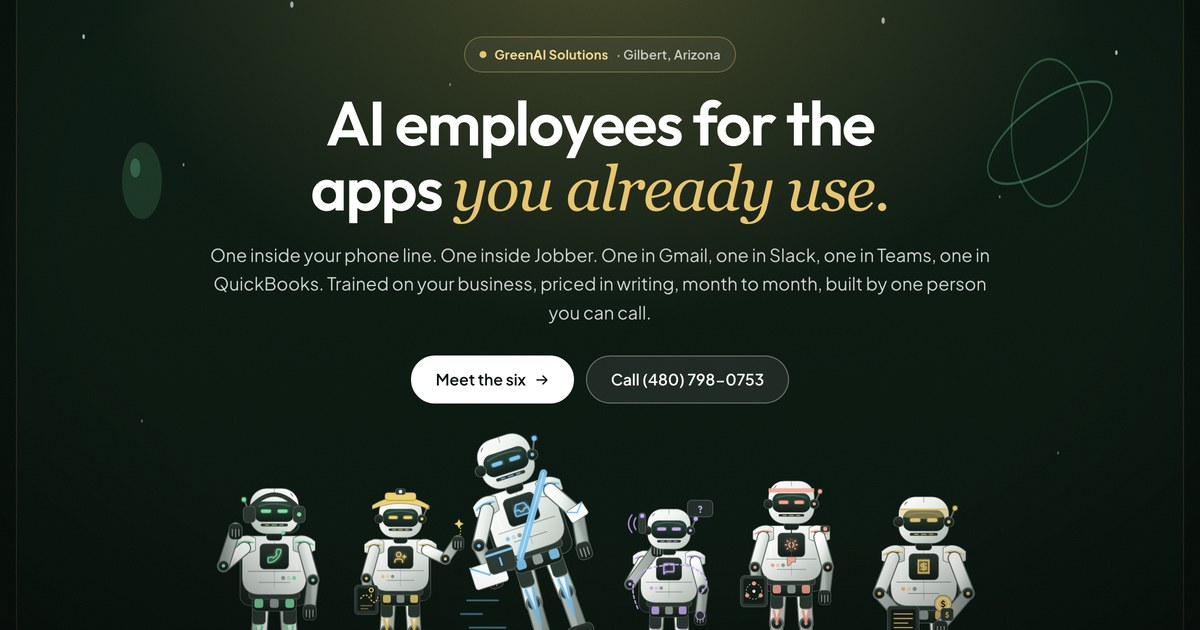
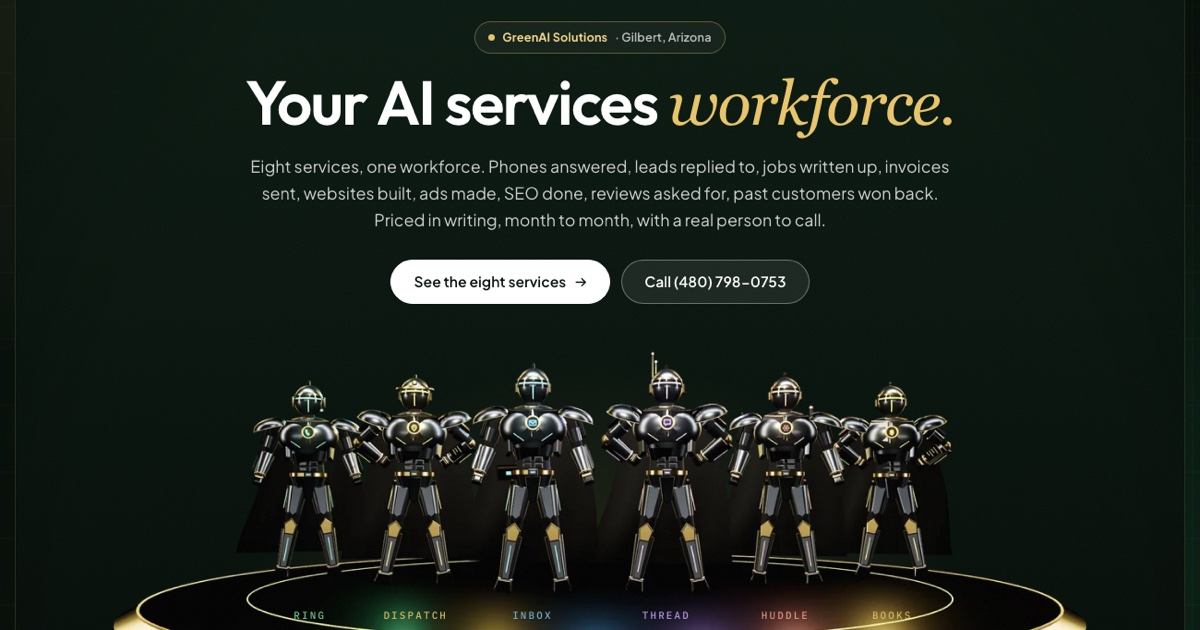
Reposition as an AI services workforce: homepage hero, services up top, footer, Services page, share card

diff --git a/index.html b/index.html
@@ -3,8 +3,8 @@
 <head>
   <meta charset="UTF-8" />
   <meta name="viewport" content="width=device-width, initial-scale=1.0" />
-  <title>GreenAI Solutions — AI employees for the apps you already use, from $297/mo</title>
-  <meta name="description" content="Six AI employees, one inside each app you already run: your phone line, Jobber, Gmail, Slack, Teams, QuickBooks. From $297 a month. Also hand-built websites from $500, a month of finished ads from $697, and custom systems when nothing off the shelf fits. Gilbert, Arizona." />
+  <title>GreenAI Solutions — an AI services workforce for small companies</title>
+  <meta name="description" content="An AI services workforce for small companies. Phones answered, leads replied to, invoices sent, websites built, ads made, SEO done, reviews asked for, past customers won back. Eight services, every price in writing: AI staff from $297 a month, websites from $500, finished ads from $697. Gilbert, Arizona." />
   <link rel="preconnect" href="https://fonts.googleapis.com" />
   <link rel="preconnect" href="https://fonts.gstatic.com" crossorigin />
   <link href="https://fonts.googleapis.com/css2?family=Outfit:wght@500;600;700&family=Plus+Jakarta+Sans:wght@400;500;600;700&family=IBM+Plex+Mono:wght@400;500&display=swap" rel="stylesheet" />
@@ -17,8 +17,8 @@
   <link rel="canonical" href="https://greenaidigital.com/" />
   <meta property="og:type" content="website" />
   <meta property="og:url" content="https://greenaidigital.com/" />
-  <meta property="og:title" content="GreenAI Solutions — AI employees for the apps you already use" />
-  <meta property="og:description" content="Six AI employees, one inside each app you already run: your phone line, Jobber, Gmail, Slack, Teams, QuickBooks. From $297 a month. Also hand-built websites from $500, a month of finished ads from $697, and custom systems when nothing off the shelf fits. Gilbert, Arizona." />
+  <meta property="og:title" content="GreenAI Solutions — your AI services workforce" />
+  <meta property="og:description" content="An AI services workforce for small companies. Phones answered, leads replied to, invoices sent, websites built, ads made, SEO done, reviews asked for, past customers won back. Eight services, every price in writing: AI staff from $297 a month, websites from $500, finished ads from $697. Gilbert, Arizona." />
   <meta property="og:image" content="https://greenaidigital.com/og-card.jpg" />
   <meta property="og:image:width" content="1200" />
   <meta property="og:image:height" content="630" />
@@ -79,9 +79,9 @@
     .hp-ads > div:not(.tall) { aspect-ratio: 1; }
     .hp-ads span { position: absolute; left: .45rem; bottom: .4rem; padding: .15rem .45rem; border-radius: 999px; background: rgba(15,26,20,.75); color: #fff; font-size: .62rem; font-weight: 700; }
     .hp-schem { display: grid; gap: .45rem; }
-    .hp-schem div { display: grid; grid-template-columns: auto 1fr auto; gap: .6rem; align-items: center; padding: .55rem .7rem; border: 1px solid var(--line); border-radius: 12px; background: #fff; font-size: .8rem; color: var(--ink); }
+    .hp-schem div { display: grid; grid-template-columns: auto 1fr auto; gap: .6rem; align-items: center; padding: .55rem .7rem; border: 1px solid var(--line); border-radius: 12px; background: rgba(255,255,255,.04); border-color: rgba(232,196,106,.28); font-size: .8rem; color: #fff; }
     .hp-schem i { width: 8px; height: 8px; border-radius: 50%; background: var(--green); }
-    .hp-schem em { font-style: normal; font-family: var(--mono); font-size: .66rem; color: var(--ink-3); }
+    .hp-schem em { font-style: normal; font-family: var(--mono); font-size: .66rem; color: rgba(255,255,255,.6); }
     .hp-services .sn-card { text-align: left; }
     .hp-services .sn-card__ico { margin-left: 0; }
     .hp-services .sn-card__price { display: flex; justify-content: space-between; align-items: baseline; gap: 1rem; margin-top: 1.2rem; padding-top: 1rem; border-top: 1px solid var(--line); }
@@ -150,9 +150,9 @@
     "founder": { "@type": "Person", "name": "Jaden Green" },
     "address": { "@type": "PostalAddress", "addressLocality": "Gilbert", "addressRegion": "AZ", "postalCode": "85296", "addressCountry": "US" },
     "areaServed": "US",
-    "description": "AI employees, websites, ad creation and custom systems for small companies.",
+    "description": "An AI services workforce for small companies: AI staff inside the apps you already use, websites, ad creation, SEO, CRM and dashboards, Google reviews, win-back campaigns and custom systems.",
     "makesOffer": [
-      { "@type": "Offer", "name": "AI employees", "url": "https://greenaidigital.com/staff.html", "priceCurrency": "USD", "price": "297" },
+      { "@type": "Offer", "name": "AI staff inside your apps", "url": "https://greenaidigital.com/staff.html", "priceCurrency": "USD", "price": "297" },
       { "@type": "Offer", "name": "Websites", "url": "https://greenaidigital.com/service-web-design.html", "priceCurrency": "USD", "price": "500" },
       { "@type": "Offer", "name": "Ad creation", "url": "https://greenaidigital.com/service-ai-ads.html", "priceCurrency": "USD", "price": "697" }
     ]
@@ -163,19 +163,48 @@
     <div class="sn-wrap"><header class="sn-panel sn-hero" aria-labelledby="hero-heading">
       <div class="sn-hero__inner">
         <p class="tk-eyebrow"><b>GreenAI Solutions</b> · Gilbert, Arizona</p>
-        <h1 class="tk-h1" id="hero-heading">AI employees for the apps <em>you already use.</em></h1>
-        <p class="sn-hero__sub">One inside your phone line. One inside Jobber. One in Gmail, one in Slack, one in Teams, one in QuickBooks. Trained on your business, priced in writing, month to month, built by one person you can call.</p>
+        <h1 class="tk-h1" id="hero-heading">Your AI services <em>workforce.</em></h1>
+        <p class="sn-hero__sub">Eight services, one workforce. Phones answered, leads replied to, jobs written up, invoices sent, websites built, ads made, SEO done, reviews asked for, past customers won back. Priced in writing, month to month, with a real person to call.</p>
         <div class="sn-hero__cta">
-          <a href="staff.html" class="tk-btn tk-btn--inverse tk-btn--arrow">Meet the six</a>
+          <a href="#h-also" class="tk-btn tk-btn--inverse tk-btn--arrow">See the eight services</a>
           <a href="tel:4807980753" class="tk-btn tk-btn--ghost">Call (480) 798-0753</a>
         </div>
       </div>
-      <div class="hp-six"><div class="hp-six__in"><img src="art/hero-six-1400.webp" srcset="art/hero-six-1400.webp 1400w, art/hero-six.webp 2400w" sizes="(max-width: 720px) 150vw, 1240px" width="2400" height="759" alt="The six AI employees standing on one stage: RING, DISPATCH, INBOX, THREAD, HUDDLE and BOOKS." fetchpriority="high" decoding="async" /><a href="ring.html" style="left:24.2%;--c:#7DE3A4" aria-label="RING"><span>RING</span></a><a href="dispatch.html" style="left:33.6%;--c:#F0CF6B" aria-label="DISPATCH"><span>DISPATCH</span></a><a href="inbox.html" style="left:44.0%;--c:#7CC4F0" aria-label="INBOX"><span>INBOX</span></a><a href="thread.html" style="left:55.9%;--c:#C9A9F7" aria-label="THREAD"><span>THREAD</span></a><a href="huddle.html" style="left:66.5%;--c:#F5A38E" aria-label="HUDDLE"><span>HUDDLE</span></a><a href="books.html" style="left:76.0%;--c:#E8C46A" aria-label="BOOKS"><span>BOOKS</span></a></div></div>
+      <div class="hp-six"><div class="hp-six__in"><img src="art/hero-six-1400.webp" srcset="art/hero-six-1400.webp 1400w, art/hero-six.webp 2400w" sizes="(max-width: 720px) 150vw, 1240px" width="2400" height="759" alt="The GreenAI workforce standing on one stage: RING, DISPATCH, INBOX, THREAD, HUDDLE and BOOKS." fetchpriority="high" decoding="async" /><a href="ring.html" style="left:24.2%;--c:#7DE3A4" aria-label="RING"><span>RING</span></a><a href="dispatch.html" style="left:33.6%;--c:#F0CF6B" aria-label="DISPATCH"><span>DISPATCH</span></a><a href="inbox.html" style="left:44.0%;--c:#7CC4F0" aria-label="INBOX"><span>INBOX</span></a><a href="thread.html" style="left:55.9%;--c:#C9A9F7" aria-label="THREAD"><span>THREAD</span></a><a href="huddle.html" style="left:66.5%;--c:#F5A38E" aria-label="HUDDLE"><span>HUDDLE</span></a><a href="books.html" style="left:76.0%;--c:#E8C46A" aria-label="BOOKS"><span>BOOKS</span></a></div></div>
     </header></div>
+
+    <section class="sn-sec" aria-labelledby="h-also">
+      <div class="sn-inner">
+        <div class="sn-head"><h2 class="tk-h2" id="h-also">Eight services. <em>One workforce.</em></h2><p class="tk-lede">Hand over one job or the whole front office. Every price is the whole price, and you have it in writing before anything is signed.</p></div>
+        <div class="sn-cards sn-cards--3 hp-services">
+          <article class="sn-card" style="grid-column:1/-1"><div class="sn-card__ico"><svg viewBox="0 0 24 24" fill="none" stroke="currentColor" stroke-width="1.8" stroke-linecap="round" stroke-linejoin="round"><path d="M16 21v-2a4 4 0 0 0-4-4H6a4 4 0 0 0-4 4v2"/><circle cx="9" cy="7" r="4"/><path d="M19 8v6M22 11h-6"/></svg></div><h3>AI staff inside your apps</h3><p>Six AI employees, one inside each tool you already run: your phone line, Jobber, Gmail, Slack, Teams and QuickBooks. They answer, reply, book and invoice at any hour, in your wording.</p>
+            <div class="sn-card__price"><b>from $297/mo</b><a href="staff.html">Meet the six →</a></div></article>
+          <article class="sn-card"><div class="sn-card__ico"><svg viewBox="0 0 24 24" fill="none" stroke="currentColor" stroke-width="1.8" stroke-linecap="round" stroke-linejoin="round"><rect x="3" y="3" width="18" height="18" rx="2"/><path d="M3 9h18M3 15h18M9 3v18"/></svg></div><h3>Websites</h3><p>No themes, no page builder. Fast on a phone, an obvious next step on every page. The files are yours the day it launches.</p>
+            <div class="sn-card__vis"><div class="hp-browser" aria-label="Three live sites, cycling"><div class="hp-browser__bar"><i></i><i></i><i></i><span class="hp-browser__url" id="hp-url">performancelab.fitness</span></div><div class="hp-browser__shots" id="hp-shots"><img class="on" src="previews/work-perflab.webp" alt="performancelab.fitness" width="1100" height="687" loading="lazy" decoding="async" data-url="performancelab.fitness" /><img src="previews/work-halle.webp" alt="handmadebyhalle.com" width="1100" height="687" loading="lazy" decoding="async" data-url="handmadebyhalle.com" /><img src="previews/work-bakr.webp" alt="bakrjewelry.co" width="1100" height="687" loading="lazy" decoding="async" data-url="bakrjewelry.co" /></div></div></div>
+            <div class="sn-card__price"><b>from $500</b><a href="service-web-design.html">See the website service →</a></div></article>
+          <article class="sn-card"><div class="sn-card__ico"><svg viewBox="0 0 24 24" fill="none" stroke="currentColor" stroke-width="1.8" stroke-linecap="round" stroke-linejoin="round"><path d="m12 2 3.09 6.26L22 9.27l-5 4.87 1.18 6.88L12 17.77l-6.18 3.25L7 14.14 2 9.27l6.91-1.01z"/></svg></div><h3>Ad creation</h3><p>Ten, twenty-five or sixty finished ads a month, in every size the platforms need. Run them all and keep what works.</p>
+            <div class="sn-card__vis"><div class="hp-ads" aria-label="Finished ad output"><div class="tall"><video src="art/ad-vid-clock.mp4" muted autoplay loop playsinline preload="metadata" poster="art/ad-angle-clock.webp" aria-label="A fifteen-second vertical ad"></video><span>9:16</span></div><div><img src="art/ad-angle-question.webp" alt="A square ad" width="720" height="720" loading="lazy" decoding="async" /><span>1:1</span></div><div><img src="art/ad-angle-split.webp" alt="A portrait ad" width="720" height="893" loading="lazy" decoding="async" /><span>4:5</span></div></div></div>
+            <div class="sn-card__price"><b>from $697/mo</b><a href="service-ai-ads.html">See the ad desk →</a></div></article>
+          <article class="sn-card"><div class="sn-card__ico"><svg viewBox="0 0 24 24" fill="none" stroke="currentColor" stroke-width="1.8" stroke-linecap="round" stroke-linejoin="round"><path d="M12 22v-5M9 8V2M15 8V2M18 8v5a6 6 0 0 1-12 0V8z"/></svg></div><h3>Custom systems</h3><p>An intake line, a quoting tool, a flight recorder for an AI agent. A written scope and a fixed price before a line of code.</p>
+            <div class="sn-card__vis"><div class="hp-schem" aria-label="A custom system, drawn from BLACKBOX"><div><i></i>Every call logged<em>append-only</em></div><div><i></i>Hash-chained<em>tamper-evident</em></div><div><i></i>Replayable<em>step by step</em></div><div><i></i>Runbook and source handed over<em>yours</em></div></div></div>
+            <div class="sn-card__price"><b>Quoted</b><a href="service-ai-consulting.html">See what has been built →</a></div></article>
+        </div>
+        <div class="sn-cards hp-services" style="grid-template-columns:repeat(2,minmax(0,1fr));margin-top:1.5rem">
+          <article class="sn-card"><div class="sn-card__ico"><svg viewBox="0 0 24 24" fill="none" stroke="currentColor" stroke-width="1.8" stroke-linecap="round" stroke-linejoin="round"><circle cx="11" cy="11" r="7"/><path d="M21 21l-4.3-4.3"/></svg></div><h3>AI SEO</h3><p>One AI agent does your SEO end to end: finds what is wrong, fixes it on your site, writes the pages you are missing and reports what changed. No new tools, no new hire. Nothing goes live until you have read it.</p>
+            <div class="sn-card__price"><b>Quoted</b><a href="service-ai-seo.html">See how AI SEO works →</a></div></article>
+          <article class="sn-card"><div class="sn-card__ico"><svg viewBox="0 0 24 24" fill="none" stroke="currentColor" stroke-width="1.8" stroke-linecap="round" stroke-linejoin="round"><rect x="3" y="3" width="18" height="18" rx="2"/><path d="M3 9h18M3 15h18M9 3v18"/></svg></div><h3>CRM and dashboard optimization</h3><p>The CRM you already pay for, cleaned up and made to follow up on its own, plus one screen with the numbers you run the company on: leads, speed, quotes, revenue, money owed.</p>
+            <div class="sn-card__price"><b>Quoted</b><a href="service-crm-dashboards.html">See what gets fixed →</a></div></article>
+          <article class="sn-card"><div class="sn-card__ico"><svg viewBox="0 0 24 24" fill="none" stroke="currentColor" stroke-width="1.8" stroke-linecap="round" stroke-linejoin="round"><path d="m12 2 3.09 6.26L22 9.27l-5 4.87 1.18 6.88L12 17.77l-6.18 3.25L7 14.14 2 9.27l6.91-1.01z"/></svg></div><h3>Google reviews</h3><p>Every finished job gets a review request, every review gets a reply in your wording, and you get the count each month. Every customer is asked the same way, the way Google requires.</p>
+            <div class="sn-card__price"><b>Quoted</b><a href="service-reviews.html">See the review engine →</a></div></article>
+          <article class="sn-card"><div class="sn-card__ico"><svg viewBox="0 0 24 24" fill="none" stroke="currentColor" stroke-width="1.8" stroke-linecap="round" stroke-linejoin="round"><path d="m17 2 4 4-4 4"/><path d="M3 11v-1a4 4 0 0 1 4-4h14"/><path d="m7 22-4-4 4-4"/><path d="M21 13v1a4 4 0 0 1-4 4H3"/></svg></div><h3>Win back past customers</h3><p>The people you already served and never wrote to again. The list cleaned up, a short series of messages in your voice, and every reply sent straight to you.</p>
+            <div class="sn-card__price"><b>Quoted</b><a href="service-winback.html">See how win-back runs →</a></div></article>
+        </div>
+      </div>
+    </section>
 
     <section class="sn-sec" aria-labelledby="h-roster">
       <div class="sn-inner">
-        <div class="sn-head"><h2 class="tk-h2" id="h-roster">Six names. <em>Six apps.</em></h2><p class="tk-lede">Hire one, or the whole staff for $1,797 a month.</p></div>
+        <div class="sn-head"><h2 class="tk-h2" id="h-roster">Six names. <em>Six apps.</em></h2><p class="tk-lede">The staff side of the workforce, one inside each tool you already run. Hire one, or all six for $1,797 a month.</p></div>
         <div class="sn-more sn-more--3"><a href="ring.html"><img class="hp-face" src="art/six-ring.webp" alt="" width="280" height="280" loading="lazy" decoding="async" /><b>RING</b><span>Works inside your phone line. Picks up in about eight seconds.</span><i>$497 a month →</i></a><a href="dispatch.html"><img class="hp-face" src="art/six-dispatch.webp" alt="" width="280" height="280" loading="lazy" decoding="async" /><b>DISPATCH</b><span>Works inside Jobber, Housecall Pro or ServiceTitan. Turns a lead into a client and a request.</span><i>$497 a month →</i></a><a href="inbox.html"><img class="hp-face" src="art/six-inbox.webp" alt="" width="280" height="280" loading="lazy" decoding="async" /><b>INBOX</b><span>Works inside Google Workspace. Replies to every new lead in under a minute.</span><i>$397 a month →</i></a><a href="thread.html"><img class="hp-face" src="art/six-thread.webp" alt="" width="280" height="280" loading="lazy" decoding="async" /><b>THREAD</b><span>Works inside Slack. Answers the team from your own documents.</span><i>$347 a month →</i></a><a href="huddle.html"><img class="hp-face" src="art/six-huddle.webp" alt="" width="280" height="280" loading="lazy" decoding="async" /><b>HUDDLE</b><span>Works inside Microsoft Teams. Answers the team from your files.</span><i>$347 a month →</i></a><a href="books.html"><img class="hp-face" src="art/six-books.webp" alt="" width="280" height="280" loading="lazy" decoding="async" /><b>BOOKS</b><span>Works inside QuickBooks Online. Sends the invoice when the job closes.</span><i>$297 a month →</i></a></div>
         <p style="text-align:center;margin:1.5rem 0 0"><a href="staff.html" class="tk-btn tk-btn--solid tk-btn--arrow">See all six at work</a></p>
       </div>
@@ -207,7 +236,7 @@
     <div class="sn-state" aria-label="Why this exists">
       <p>Most small companies do not lose the job to a competitor. They lose it to the phone that rang out at 6:40, the email answered on Thursday, and the invoice that went out three weeks late.</p>
       <p>Not because nobody cared. Because the same three people were already doing everything.</p>
-      <p><span class="who">SIX EMPLOYEES</span> take those off your plate. One inside each app you already use. Nothing new to log into.</p>
+      <p><span class="who">THE WORKFORCE</span> takes those off your plate. It works inside the apps you already use. Nothing new to log into.</p>
     </div>
 
     <section class="sn-sec" aria-labelledby="h-how">
@@ -257,33 +286,6 @@
       </div>
     </section>
 
-    <section class="sn-sec" aria-labelledby="h-also">
-      <div class="sn-inner">
-        <div class="sn-head"><h2 class="tk-h2" id="h-also">Also built here, <em>by the same person.</em></h2><p class="tk-lede">Websites coded by hand, a month of finished ads, SEO that gets done, a CRM you can trust, and custom systems when the honest answer is that it has to be built.</p></div>
-        <div class="sn-cards sn-cards--3 hp-services">
-          <article class="sn-card"><div class="sn-card__ico"><svg viewBox="0 0 24 24" fill="none" stroke="currentColor" stroke-width="1.8" stroke-linecap="round" stroke-linejoin="round"><rect x="3" y="3" width="18" height="18" rx="2"/><path d="M3 9h18M3 15h18M9 3v18"/></svg></div><h3>Websites</h3><p>No themes, no page builder. Fast on a phone, an obvious next step on every page. The files are yours the day it launches.</p>
-            <div class="sn-card__vis"><div class="hp-browser" aria-label="Three live sites, cycling"><div class="hp-browser__bar"><i></i><i></i><i></i><span class="hp-browser__url" id="hp-url">performancelab.fitness</span></div><div class="hp-browser__shots" id="hp-shots"><img class="on" src="previews/work-perflab.webp" alt="performancelab.fitness" width="1100" height="687" loading="lazy" decoding="async" data-url="performancelab.fitness" /><img src="previews/work-halle.webp" alt="handmadebyhalle.com" width="1100" height="687" loading="lazy" decoding="async" data-url="handmadebyhalle.com" /><img src="previews/work-bakr.webp" alt="bakrjewelry.co" width="1100" height="687" loading="lazy" decoding="async" data-url="bakrjewelry.co" /></div></div></div>
-            <div class="sn-card__price"><b>from $500</b><a href="service-web-design.html">See the website service →</a></div></article>
-          <article class="sn-card"><div class="sn-card__ico"><svg viewBox="0 0 24 24" fill="none" stroke="currentColor" stroke-width="1.8" stroke-linecap="round" stroke-linejoin="round"><path d="m12 2 3.09 6.26L22 9.27l-5 4.87 1.18 6.88L12 17.77l-6.18 3.25L7 14.14 2 9.27l6.91-1.01z"/></svg></div><h3>Ad creation</h3><p>Ten, twenty-five or sixty finished ads a month, in every size the platforms need. Run them all and keep what works.</p>
-            <div class="sn-card__vis"><div class="hp-ads" aria-label="Finished ad output"><div class="tall"><video src="art/ad-vid-clock.mp4" muted autoplay loop playsinline preload="metadata" poster="art/ad-angle-clock.webp" aria-label="A fifteen-second vertical ad"></video><span>9:16</span></div><div><img src="art/ad-angle-question.webp" alt="A square ad" width="720" height="720" loading="lazy" decoding="async" /><span>1:1</span></div><div><img src="art/ad-angle-split.webp" alt="A portrait ad" width="720" height="893" loading="lazy" decoding="async" /><span>4:5</span></div></div></div>
-            <div class="sn-card__price"><b>from $697/mo</b><a href="service-ai-ads.html">See the ad desk →</a></div></article>
-          <article class="sn-card"><div class="sn-card__ico"><svg viewBox="0 0 24 24" fill="none" stroke="currentColor" stroke-width="1.8" stroke-linecap="round" stroke-linejoin="round"><path d="M12 22v-5M9 8V2M15 8V2M18 8v5a6 6 0 0 1-12 0V8z"/></svg></div><h3>Custom systems</h3><p>An intake line, a quoting tool, a flight recorder for an AI agent. A written scope and a fixed price before a line of code.</p>
-            <div class="sn-card__vis"><div class="hp-schem" aria-label="A custom system, drawn from BLACKBOX"><div><i></i>Every call logged<em>append-only</em></div><div><i></i>Hash-chained<em>tamper-evident</em></div><div><i></i>Replayable<em>step by step</em></div><div><i></i>Runbook and source handed over<em>yours</em></div></div></div>
-            <div class="sn-card__price"><b>Quoted</b><a href="service-ai-consulting.html">See what has been built →</a></div></article>
-        </div>
-        <div class="sn-cards hp-services" style="grid-template-columns:repeat(2,minmax(0,1fr));margin-top:1.5rem">
-          <article class="sn-card"><div class="sn-card__ico"><svg viewBox="0 0 24 24" fill="none" stroke="currentColor" stroke-width="1.8" stroke-linecap="round" stroke-linejoin="round"><circle cx="11" cy="11" r="7"/><path d="M21 21l-4.3-4.3"/></svg></div><h3>AI SEO</h3><p>One AI agent does your SEO end to end: finds what is wrong, fixes it on your site, writes the pages you are missing and reports what changed. No new tools, no new hire. Nothing goes live until you have read it.</p>
-            <div class="sn-card__price"><b>Quoted</b><a href="service-ai-seo.html">See how AI SEO works →</a></div></article>
-          <article class="sn-card"><div class="sn-card__ico"><svg viewBox="0 0 24 24" fill="none" stroke="currentColor" stroke-width="1.8" stroke-linecap="round" stroke-linejoin="round"><rect x="3" y="3" width="18" height="18" rx="2"/><path d="M3 9h18M3 15h18M9 3v18"/></svg></div><h3>CRM and dashboard optimization</h3><p>The CRM you already pay for, cleaned up and made to follow up on its own, plus one screen with the numbers you run the company on: leads, speed, quotes, revenue, money owed.</p>
-            <div class="sn-card__price"><b>Quoted</b><a href="service-crm-dashboards.html">See what gets fixed →</a></div></article>
-          <article class="sn-card"><div class="sn-card__ico"><svg viewBox="0 0 24 24" fill="none" stroke="currentColor" stroke-width="1.8" stroke-linecap="round" stroke-linejoin="round"><path d="m12 2 3.09 6.26L22 9.27l-5 4.87 1.18 6.88L12 17.77l-6.18 3.25L7 14.14 2 9.27l6.91-1.01z"/></svg></div><h3>Google reviews</h3><p>Every finished job gets a review request, every review gets a reply in your wording, and you get the count each month. Every customer is asked the same way, the way Google requires.</p>
-            <div class="sn-card__price"><b>Quoted</b><a href="service-reviews.html">See the review engine →</a></div></article>
-          <article class="sn-card"><div class="sn-card__ico"><svg viewBox="0 0 24 24" fill="none" stroke="currentColor" stroke-width="1.8" stroke-linecap="round" stroke-linejoin="round"><path d="m17 2 4 4-4 4"/><path d="M3 11v-1a4 4 0 0 1 4-4h14"/><path d="m7 22-4-4 4-4"/><path d="M21 13v1a4 4 0 0 1-4 4H3"/></svg></div><h3>Win back past customers</h3><p>The people you already served and never wrote to again. The list cleaned up, a short series of messages in your voice, and every reply sent straight to you.</p>
-            <div class="sn-card__price"><b>Quoted</b><a href="service-winback.html">See how win-back runs →</a></div></article>
-        </div>
-      </div>
-    </section>
-
     <section class="sn-sec" aria-labelledby="h-work" style="padding-top:0">
       <div class="sn-inner">
         <div class="sn-head"><h2 class="tk-h2" id="h-work">Everything here is live. <em>Open it.</em></h2><p class="tk-lede">Three sites for real owners and two 3D concept sites built in-house. <a href="testimonials.html">All the work</a></p></div>
@@ -300,10 +302,10 @@
     <section class="sn-sec" aria-labelledby="h-stats" style="padding-top:0">
       <div class="sn-inner">
         <div class="sn-stats">
-          <div class="sn-stat"><span>AI employees</span><b>6</b><small>one inside each app you already use</small></div>
+          <div class="sn-stat"><span>Services</span><b>8</b><small>one workforce, every price in writing</small></div>
           <div class="sn-stat"><span>From</span><b>$297</b><small>a month, month to month, no setup fee</small></div>
           <div class="sn-stat"><span>Picks up in about</span><b>8 sec</b><small>the target RING is built to, any hour</small></div>
-          <div class="sn-stat"><span>Person to call</span><b>1</b><small>the one who built it: (480) 798-0753</small></div>
+          <div class="sn-stat"><span>Number to call</span><b>1</b><small>a person answers it: (480) 798-0753</small></div>
         </div>
       </div>
     </section>
@@ -325,7 +327,7 @@
       </div>
     </section>
   </main>
-  <div class="sn-sticky"><a href="staff.html" class="tk-btn tk-btn--solid tk-btn--arrow">Meet the six AI employees</a></div>
+  <div class="sn-sticky"><a href="services.html" class="tk-btn tk-btn--solid tk-btn--arrow">See the eight services</a></div>
     <footer class="footer" aria-label="Site footer">
     <div class="container">
       <div class="footer__grid">
@@ -334,7 +336,7 @@
             <div class="footer__logo-icon"><img src="logo-mark.png" alt="GreenAI" width="36" height="36" loading="lazy" decoding="async"/></div>
             <span class="footer__logo-name">Green<span style="color:#D4AF37">AI</span> Solutions</span>
           </a>
-          <p class="footer__tagline">AI employees, websites, ad creation and custom systems for small companies in any trade. Built one at a time in Gilbert, Arizona, by the person who answers the phone.</p>
+          <p class="footer__tagline">An AI services workforce for small companies in any trade: AI staff, websites, ads, SEO, CRM, reviews, win-back and custom systems. Run from Gilbert, Arizona, with a real person on the phone.</p>
           <p style="font-size:.78rem;color:rgba(255,255,255,.62)">Jaden Green, doing business as GreenAI Solutions<br/>Gilbert, Arizona</p>
         </div>
 

diff --git a/services.html b/services.html
@@ -3,8 +3,8 @@
 <head>
   <meta charset="UTF-8" />
   <meta name="viewport" content="width=device-width, initial-scale=1.0" />
-  <title>Services — AI employees, websites, ad creation and custom systems | GreenAI Solutions</title>
-  <meta name="description" content="Eight services, every price the whole price. AI employees from $297 a month, hand-coded websites from $500, a month of finished ads from $697, custom systems quoted after one conversation. Gilbert, Arizona." />
+  <title>Services — eight services from one AI workforce | GreenAI Solutions</title>
+  <meta name="description" content="Eight services from one AI services workforce, every price the whole price. AI staff from $297 a month, hand-coded websites from $500, a month of finished ads from $697, custom systems quoted after one conversation. Gilbert, Arizona." />
   <link rel="preconnect" href="https://fonts.googleapis.com" />
   <link rel="preconnect" href="https://fonts.gstatic.com" crossorigin />
   <link href="https://fonts.googleapis.com/css2?family=Outfit:wght@500;600;700&family=Plus+Jakarta+Sans:wght@400;500;600;700&family=IBM+Plex+Mono:wght@400;500&display=swap" rel="stylesheet" />
@@ -17,8 +17,8 @@
   <link rel="canonical" href="https://greenaidigital.com/services.html" />
   <meta property="og:type" content="website" />
   <meta property="og:url" content="https://greenaidigital.com/services.html" />
-  <meta property="og:title" content="Eight services. Every price is the whole price." />
-  <meta property="og:description" content="Eight services, every price the whole price. AI employees from $297 a month, hand-coded websites from $500, a month of finished ads from $697, custom systems quoted after one conversation. Gilbert, Arizona." />
+  <meta property="og:title" content="Eight services. One workforce." />
+  <meta property="og:description" content="Eight services from one AI services workforce, every price the whole price. AI staff from $297 a month, hand-coded websites from $500, a month of finished ads from $697, custom systems quoted after one conversation. Gilbert, Arizona." />
   <meta property="og:image" content="https://greenaidigital.com/og-card.jpg" />
   <meta property="og:image:width" content="1200" />
   <meta property="og:image:height" content="630" />
@@ -221,8 +221,8 @@
 
     <header class="sv-hero" aria-labelledby="h1">
       <p class="sv-slate">GreenAI Solutions presents</p>
-      <h1 id="h1">Eight services. <em>One number to call.</em></h1>
-      <p>Nothing here is a starting point that grows once you are in. The number next to each service is what it costs, the agreement you would sign is already on this site, and anything recurring is month to month.</p>
+      <h1 id="h1">Eight services. <em>One workforce.</em></h1>
+      <p>GreenAI is an AI services workforce: you hand over a job, and it gets done inside the tools you already use. Nothing here is a starting point that grows once you are in. The number next to each service is what it costs, the agreement you would sign is already on this site, and anything recurring is month to month.</p>
       <div class="sv-cta" style="justify-content:center"><a href="#s1" class="tk-btn tk-btn--solid tk-btn--arrow">Roll the eight</a><a href="tel:4807980753" class="tk-btn tk-btn--ghost">Call (480) 798-0753</a></div>
       <div class="sv-cast" aria-label="The cast"><a href="ring.html"><span><img class="rb-bust rb3-head" src="art/bots/ring-head.webp" alt="" width="200" height="200" loading="lazy" decoding="async" /></span>RING</a><a href="dispatch.html"><span><img class="rb-bust rb3-head" src="art/bots/dispatch-head.webp" alt="" width="200" height="200" loading="lazy" decoding="async" /></span>DISPATCH</a><a href="inbox.html"><span><img class="rb-bust rb3-head" src="art/bots/inbox-head.webp" alt="" width="200" height="200" loading="lazy" decoding="async" /></span>INBOX</a><a href="thread.html"><span><img class="rb-bust rb3-head" src="art/bots/thread-head.webp" alt="" width="200" height="200" loading="lazy" decoding="async" /></span>THREAD</a><a href="huddle.html"><span><img class="rb-bust rb3-head" src="art/bots/huddle-head.webp" alt="" width="200" height="200" loading="lazy" decoding="async" /></span>HUDDLE</a><a href="books.html"><span><img class="rb-bust rb3-head" src="art/bots/books-head.webp" alt="" width="200" height="200" loading="lazy" decoding="async" /></span>BOOKS</a></div>
     </header>
@@ -379,7 +379,7 @@
             <div class="footer__logo-icon"><img src="logo-mark.png" alt="GreenAI" width="36" height="36" loading="lazy" decoding="async"/></div>
             <span class="footer__logo-name">Green<span style="color:#D4AF37">AI</span> Solutions</span>
           </a>
-          <p class="footer__tagline">AI employees, websites, ad creation and custom systems for small companies in any trade. Built one at a time in Gilbert, Arizona, by the person who answers the phone.</p>
+          <p class="footer__tagline">An AI services workforce for small companies in any trade: AI staff, websites, ads, SEO, CRM, reviews, win-back and custom systems. Run from Gilbert, Arizona, with a real person on the phone.</p>
           <p style="font-size:.78rem;color:rgba(255,255,255,.62)">Jaden Green, doing business as GreenAI Solutions<br/>Gilbert, Arizona</p>
         </div>
 

diff --git a/about.html b/about.html
@@ -183,7 +183,7 @@
           <li><i>2020 – 2025</i><div><b>University of Washington</b><p>Five years on a full football scholarship in Seattle. 5 a.m. lifts, film graded every week, performance judged in public. I finished a degree in art with a minor in real estate, which is why the sites look the way they do and why I read the numbers before I automate anything.</p></div></li>
           <li><i>Early 2025</i><div><b>The ramp at Sky Harbor</b><p>Ground crew on aircraft turns. A clock that does not move and a checklist that does not bend. I started GreenAI the same winter.</p></div></li>
           <li><i>2025 – 2026</i><div><b>A service route, and a lot of doors</b><p>A year inside a small Phoenix service company: a weekly route of homes, and door-to-door sales through a full Arizona summer. I saw from the inside what a small company's day looks like, and how much of it is the phone, the follow-up and the invoice.</p></div></li>
-          <li><i>Now</i><div><b>GreenAI Solutions</b><p>Six AI employees that work inside the apps a company already uses, websites coded by hand, finished ads and custom systems. We are a team of 12 now, and my number is still the one on the site.</p></div></li>
+          <li><i>Now</i><div><b>GreenAI Solutions</b><p>An AI services workforce for small companies: AI staff inside the apps they already use, websites coded by hand, finished ads, SEO and custom systems. We are a team of 12 now, and my number is still the one on the site.</p></div></li>
         </ol>
       </div>
     </section>
@@ -229,7 +229,7 @@
             <div class="footer__logo-icon"><img src="logo-mark.png" alt="GreenAI" width="36" height="36" loading="lazy" decoding="async"/></div>
             <span class="footer__logo-name">Green<span style="color:#D4AF37">AI</span> Solutions</span>
           </a>
-          <p class="footer__tagline">AI employees, websites, ad creation and custom systems for small companies in any trade. Built one at a time in Gilbert, Arizona, by the person who answers the phone.</p>
+          <p class="footer__tagline">An AI services workforce for small companies in any trade: AI staff, websites, ads, SEO, CRM, reviews, win-back and custom systems. Run from Gilbert, Arizona, with a real person on the phone.</p>
           <p style="font-size:.78rem;color:rgba(255,255,255,.62)">Jaden Green, doing business as GreenAI Solutions<br/>Gilbert, Arizona</p>
         </div>
 

diff --git a/testimonials.html b/testimonials.html
@@ -197,7 +197,7 @@
 
     <section class="sn-sec" aria-labelledby="h-cta" style="padding-top:0;padding-bottom:2rem">
       <div class="sn-inner" style="text-align:center">
-        <div class="sn-head"><h2 class="tk-h2" id="h-cta">That is the standard. <em>Now it points at your company.</em></h2><p class="tk-lede">Websites from $500, AI employees from $297 a month, a month of finished ads from $697, and custom systems quoted after one conversation. Month to month, and everything built is yours.</p></div>
+        <div class="sn-head"><h2 class="tk-h2" id="h-cta">That is the standard. <em>Now it points at your company.</em></h2><p class="tk-lede">One AI services workforce: websites from $500, AI staff from $297 a month, a month of finished ads from $697, and custom systems quoted after one conversation. Month to month, and everything built is yours.</p></div>
         <div class="sn-hero__cta"><a href="services.html" class="tk-btn tk-btn--solid tk-btn--arrow">See the services and prices</a><a href="contact.html" class="tk-btn tk-btn--line">Talk to Jaden</a></div>
       </div>
     </section>
@@ -210,7 +210,7 @@
             <div class="footer__logo-icon"><img src="logo-mark.png" alt="GreenAI" width="36" height="36" loading="lazy" decoding="async"/></div>
             <span class="footer__logo-name">Green<span style="color:#D4AF37">AI</span> Solutions</span>
           </a>
-          <p class="footer__tagline">AI employees, websites, ad creation and custom systems for small companies in any trade. Built one at a time in Gilbert, Arizona, by the person who answers the phone.</p>
+          <p class="footer__tagline">An AI services workforce for small companies in any trade: AI staff, websites, ads, SEO, CRM, reviews, win-back and custom systems. Run from Gilbert, Arizona, with a real person on the phone.</p>
           <p style="font-size:.78rem;color:rgba(255,255,255,.62)">Jaden Green, doing business as GreenAI Solutions<br/>Gilbert, Arizona</p>
         </div>
 

diff --git a/404.html b/404.html
@@ -158,7 +158,7 @@
             <div class="footer__logo-icon"><img src="logo-mark.png" alt="GreenAI" width="36" height="36" loading="lazy" decoding="async"/></div>
             <span class="footer__logo-name">Green<span style="color:#D4AF37">AI</span> Solutions</span>
           </a>
-          <p class="footer__tagline">AI employees, websites, ad creation and custom systems for small companies in any trade. Built one at a time in Gilbert, Arizona, by the person who answers the phone.</p>
+          <p class="footer__tagline">An AI services workforce for small companies in any trade: AI staff, websites, ads, SEO, CRM, reviews, win-back and custom systems. Run from Gilbert, Arizona, with a real person on the phone.</p>
           <p style="font-size:.78rem;color:rgba(255,255,255,.62)">Jaden Green, doing business as GreenAI Solutions<br/>Gilbert, Arizona</p>
         </div>
 

diff --git a/agreement.html b/agreement.html
@@ -270,7 +270,7 @@
             <div class="footer__logo-icon"><img src="logo-mark.png" alt="GreenAI" width="36" height="36" loading="lazy" decoding="async"/></div>
             <span class="footer__logo-name">Green<span style="color:#D4AF37">AI</span> Solutions</span>
           </a>
-          <p class="footer__tagline">AI employees, websites, ad creation and custom systems for small companies in any trade. Built one at a time in Gilbert, Arizona, by the person who answers the phone.</p>
+          <p class="footer__tagline">An AI services workforce for small companies in any trade: AI staff, websites, ads, SEO, CRM, reviews, win-back and custom systems. Run from Gilbert, Arizona, with a real person on the phone.</p>
           <p style="font-size:.78rem;color:rgba(255,255,255,.62)">Jaden Green, doing business as GreenAI Solutions<br/>Gilbert, Arizona</p>
         </div>
 

diff --git a/balance.html b/balance.html
@@ -381,7 +381,7 @@
             <div class="footer__logo-icon"><img src="logo-mark.png" alt="GreenAI" width="36" height="36" loading="lazy" decoding="async"/></div>
             <span class="footer__logo-name">Green<span style="color:#D4AF37">AI</span> Solutions</span>
           </a>
-          <p class="footer__tagline">AI employees, websites, ad creation and custom systems for small companies in any trade. Built one at a time in Gilbert, Arizona, by the person who answers the phone.</p>
+          <p class="footer__tagline">An AI services workforce for small companies in any trade: AI staff, websites, ads, SEO, CRM, reviews, win-back and custom systems. Run from Gilbert, Arizona, with a real person on the phone.</p>
           <p style="font-size:.78rem;color:rgba(255,255,255,.62)">Jaden Green, doing business as GreenAI Solutions<br/>Gilbert, Arizona</p>
         </div>
 

diff --git a/books.html b/books.html
@@ -262,7 +262,7 @@
             <div class="footer__logo-icon"><img src="logo-mark.png" alt="GreenAI" width="36" height="36" loading="lazy" decoding="async"/></div>
             <span class="footer__logo-name">Green<span style="color:#D4AF37">AI</span> Solutions</span>
           </a>
-          <p class="footer__tagline">AI employees, websites, ad creation and custom systems for small companies in any trade. Built one at a time in Gilbert, Arizona, by the person who answers the phone.</p>
+          <p class="footer__tagline">An AI services workforce for small companies in any trade: AI staff, websites, ads, SEO, CRM, reviews, win-back and custom systems. Run from Gilbert, Arizona, with a real person on the phone.</p>
           <p style="font-size:.78rem;color:rgba(255,255,255,.62)">Jaden Green, doing business as GreenAI Solutions<br/>Gilbert, Arizona</p>
         </div>
 

diff --git a/call.html b/call.html
@@ -280,7 +280,7 @@
             <div class="footer__logo-icon"><img src="logo-mark.png" alt="GreenAI" width="36" height="36" loading="lazy" decoding="async"/></div>
             <span class="footer__logo-name">Green<span style="color:#D4AF37">AI</span> Solutions</span>
           </a>
-          <p class="footer__tagline">AI employees, websites, ad creation and custom systems for small companies in any trade. Built one at a time in Gilbert, Arizona, by the person who answers the phone.</p>
+          <p class="footer__tagline">An AI services workforce for small companies in any trade: AI staff, websites, ads, SEO, CRM, reviews, win-back and custom systems. Run from Gilbert, Arizona, with a real person on the phone.</p>
           <p style="font-size:.78rem;color:rgba(255,255,255,.62)">Jaden Green, doing business as GreenAI Solutions<br/>Gilbert, Arizona</p>
         </div>
 

diff --git a/catch.html b/catch.html
@@ -327,7 +327,7 @@
             <div class="footer__logo-icon"><img src="logo-mark.png" alt="GreenAI" width="36" height="36" loading="lazy" decoding="async"/></div>
             <span class="footer__logo-name">Green<span style="color:#D4AF37">AI</span> Solutions</span>
           </a>
-          <p class="footer__tagline">AI employees, websites, ad creation and custom systems for small companies in any trade. Built one at a time in Gilbert, Arizona, by the person who answers the phone.</p>
+          <p class="footer__tagline">An AI services workforce for small companies in any trade: AI staff, websites, ads, SEO, CRM, reviews, win-back and custom systems. Run from Gilbert, Arizona, with a real person on the phone.</p>
           <p style="font-size:.78rem;color:rgba(255,255,255,.62)">Jaden Green, doing business as GreenAI Solutions<br/>Gilbert, Arizona</p>
         </div>
 

diff --git a/contact.html b/contact.html
@@ -350,7 +350,7 @@
             <div class="footer__logo-icon"><img src="logo-mark.png" alt="GreenAI" width="36" height="36" loading="lazy" decoding="async"/></div>
             <span class="footer__logo-name">Green<span style="color:#D4AF37">AI</span> Solutions</span>
           </a>
-          <p class="footer__tagline">AI employees, websites, ad creation and custom systems for small companies in any trade. Built one at a time in Gilbert, Arizona, by the person who answers the phone.</p>
+          <p class="footer__tagline">An AI services workforce for small companies in any trade: AI staff, websites, ads, SEO, CRM, reviews, win-back and custom systems. Run from Gilbert, Arizona, with a real person on the phone.</p>
           <p style="font-size:.78rem;color:rgba(255,255,255,.62)">Jaden Green, doing business as GreenAI Solutions<br/>Gilbert, Arizona</p>
         </div>
 

diff --git a/demo.html b/demo.html
@@ -226,7 +226,7 @@
             <div class="footer__logo-icon"><img src="logo-mark.png" alt="GreenAI" width="36" height="36" loading="lazy" decoding="async"/></div>
             <span class="footer__logo-name">Green<span style="color:#D4AF37">AI</span> Solutions</span>
           </a>
-          <p class="footer__tagline">AI employees, websites, ad creation and custom systems for small companies in any trade. Built one at a time in Gilbert, Arizona, by the person who answers the phone.</p>
+          <p class="footer__tagline">An AI services workforce for small companies in any trade: AI staff, websites, ads, SEO, CRM, reviews, win-back and custom systems. Run from Gilbert, Arizona, with a real person on the phone.</p>
           <p style="font-size:.78rem;color:rgba(255,255,255,.62)">Jaden Green, doing business as GreenAI Solutions<br/>Gilbert, Arizona</p>
         </div>
 
